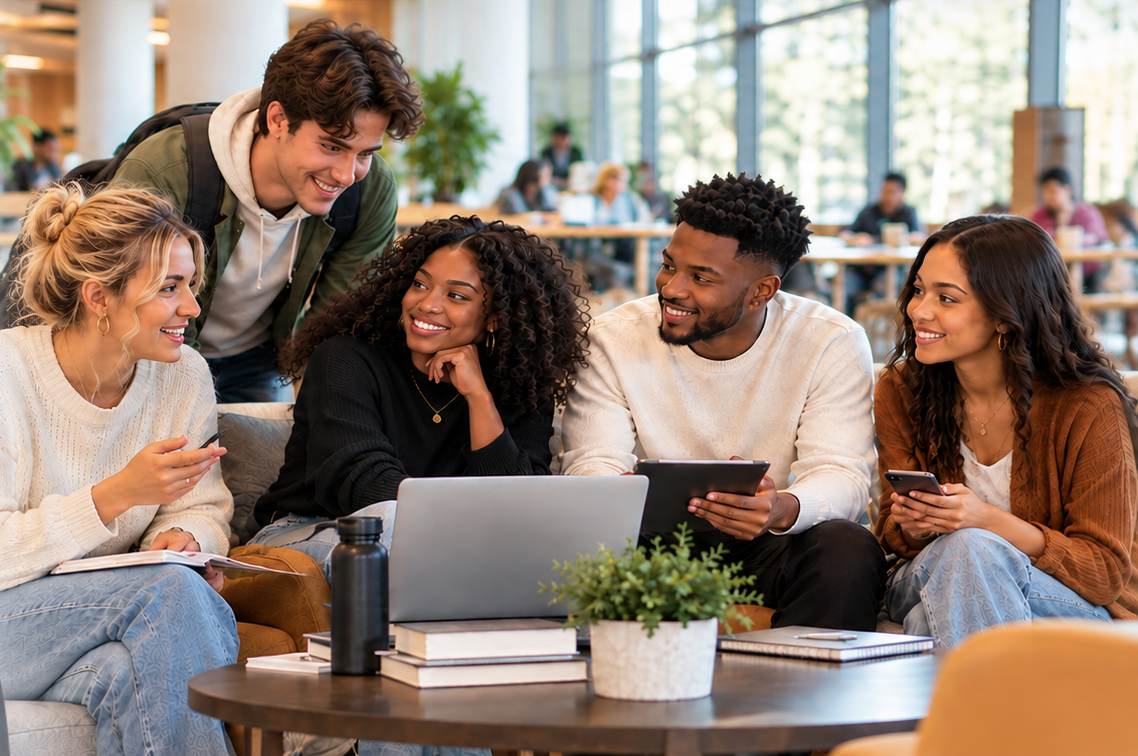
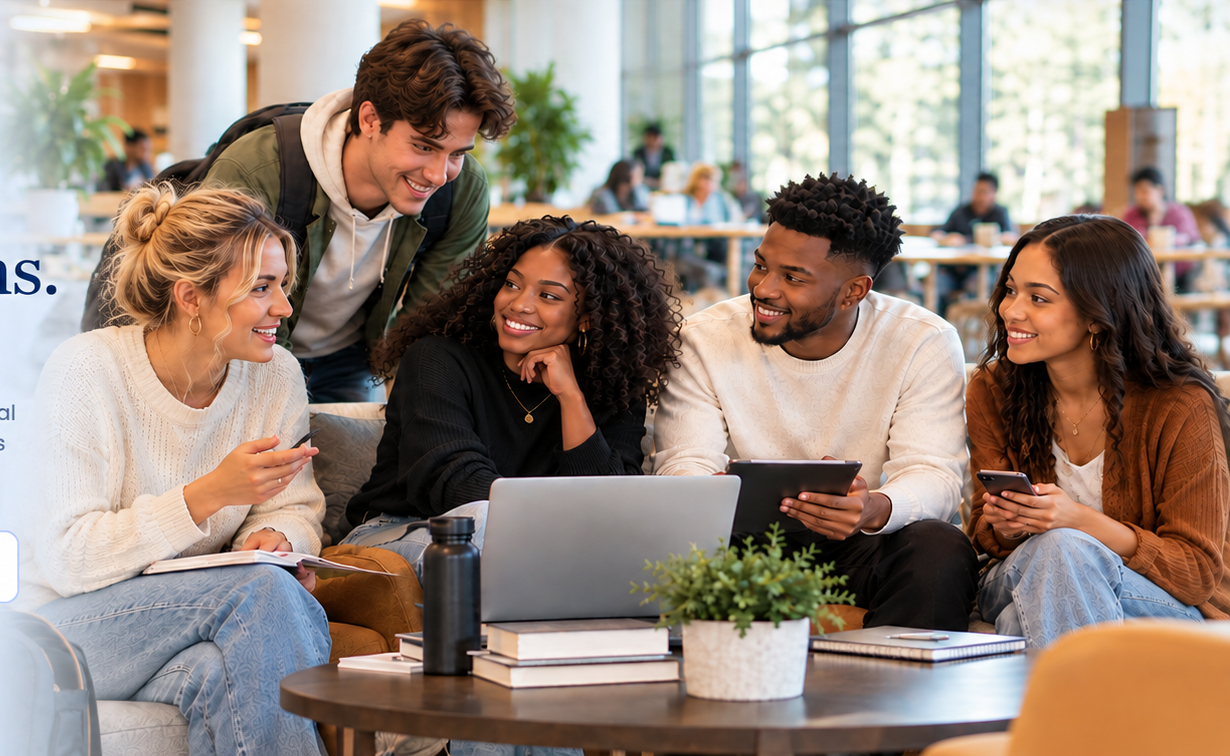
2nd update

diff --git a/src/app/welcome/welcomeLightBlueTheme.ts b/src/app/welcome/welcomeLightBlueTheme.ts
@@ -55,7 +55,7 @@ export const welcomeLightBlueTheme = String.raw`
  justify-content:flex-start!important;isolation:isolate;overflow:hidden;
  min-height:clamp(440px,35vw,550px)!important;
  background-color:#eaf3ff!important;
- background-image:linear-gradient(90deg,#edf5ff 0%,#edf5ff 26%,rgba(237,245,255,.96) 35%,rgba(237,245,255,.35) 47%,rgba(237,245,255,0) 57%),url('/brand/eccoozs-campus-five-students.png')!important;
+ background-image:linear-gradient(90deg,#edf5ff 0%,#edf5ff 26%,rgba(237,245,255,.96) 35%,rgba(237,245,255,.35) 47%,rgba(237,245,255,0) 57%),url('/brand/eccoozs-community-professionals.png')!important;
  background-size:100% 100%,auto 100%!important;background-position:center center,right center!important;
  background-repeat:no-repeat!important;border-bottom:1px solid #c7daf5;
 }
@@ -75,7 +75,7 @@ export const welcomeLightBlueTheme = String.raw`
 .eccoozs-v6-root .nav-logo .social-prestige-logo{display:block;width:172px!important;max-width:100%;height:auto!important;aspect-ratio:auto;object-fit:contain}
 @media(max-width:900px){
  .eccoozs-v6-root .social-connect-section{min-height:690px!important;align-items:flex-start!important;
- background-image:linear-gradient(180deg,#edf5ff 0%,#edf5ff 28%,rgba(237,245,255,.97) 39%,rgba(237,245,255,0) 65%),url('/brand/eccoozs-campus-five-students.png')!important;
+ background-image:linear-gradient(180deg,#edf5ff 0%,#edf5ff 28%,rgba(237,245,255,.97) 39%,rgba(237,245,255,0) 65%),url('/brand/eccoozs-community-professionals.png')!important;
  background-size:100% 100%,auto 60%!important;background-position:center,center bottom!important}
  .eccoozs-v6-root .social-connect-content{width:100%;padding:30px 7vw 22px!important;max-width:680px}
 }
@@ -84,5 +84,16 @@ export const welcomeLightBlueTheme = String.raw`
  .eccoozs-v6-root .social-connect-section{min-height:640px!important;background-size:100% 100%,auto 52%!important;background-position:center,center bottom!important}
  .eccoozs-v6-root .social-connect-content h2{font-size:clamp(31px,8vw,42px)}
  .eccoozs-v6-root .social-connect-content .social-hero-actions{flex-wrap:wrap}
+}
+
+/* Approved Our Story layout: text left; five college-age students right. */
+.eccoozs-v6-root .social-story-shell{display:grid!important;grid-template-columns:minmax(0,1fr) minmax(0,1fr)!important;align-items:center!important;gap:clamp(25px,4vw,65px)!important}
+.eccoozs-v6-root .social-story-copy{grid-column:1!important;grid-row:1!important;min-width:0!important}
+.eccoozs-v6-root .social-story-image{grid-column:2!important;grid-row:1!important;min-width:0!important;width:100%!important;overflow:hidden!important;border-radius:22px!important}
+.eccoozs-v6-root .social-story-image img{display:block!important;width:100%!important;height:auto!important;aspect-ratio:1230/756!important;object-fit:cover!important;object-position:center!important}
+@media(max-width:800px){
+ .eccoozs-v6-root .social-story-shell{grid-template-columns:1fr!important}
+ .eccoozs-v6-root .social-story-copy{grid-column:1!important;grid-row:1!important}
+ .eccoozs-v6-root .social-story-image{grid-column:1!important;grid-row:2!important}
 }
 `;

diff --git a/src/app/welcome/welcomeV6SocialMarkup.ts b/src/app/welcome/welcomeV6SocialMarkup.ts
@@ -53,7 +53,7 @@ html = replaceSection(
   html,
   "hero",
   String.raw`<section id="hero" class="social-connect-section" aria-labelledby="connect-title">
-  <div class="social-connect-scene" role="img" aria-label="Five college-age ECCOOZS community members collaborating in a campus lounge"></div>
+  <div class="social-connect-scene" role="img" aria-label="Three ECCOOZS professionals connecting over a phone and laptop"></div>
   <div class="social-connect-content rv">
     <div class="social-kicker">REAL PEOPLE. REAL CONNECTIONS.</div>
     <h2 id="connect-title">Your people.<br/>Your conversations.<br/>Your space.</h2>
@@ -132,13 +132,14 @@ html = replaceSection(
   "community",
   String.raw`<section id="community" class="social-story-section">
   <div class="social-section-shell social-story-shell">
-    <div class="social-story-image rv"><img alt="Diverse ECCOOZS community gathered around a laptop" src="/phone/friends_laughing_around_a_laptop.png"/></div>
+    
     <div class="social-story-copy rv">
       <div class="social-kicker">OUR STORY</div>
       <h2>Built from within.<br/>For all who walk<br/>with respect.</h2>
       <p class="social-story-quote">“I didn't build this to go viral. I built it because there was no place left for our voices to breathe.”</p>
       <p class="social-story-body">ECCOOZS was built by Foundational Black Americans as a digital sanctuary for culture, faith, and truth. But ALL ARE WELCOME HERE who walk in respect.</p>
     </div>
+    <div class="social-story-image rv"><img alt="Five college-age students connecting in a campus lounge" src="/brand/eccoozs-campus-five-students.png"/></div>
   </div>
 </section>`
 );
